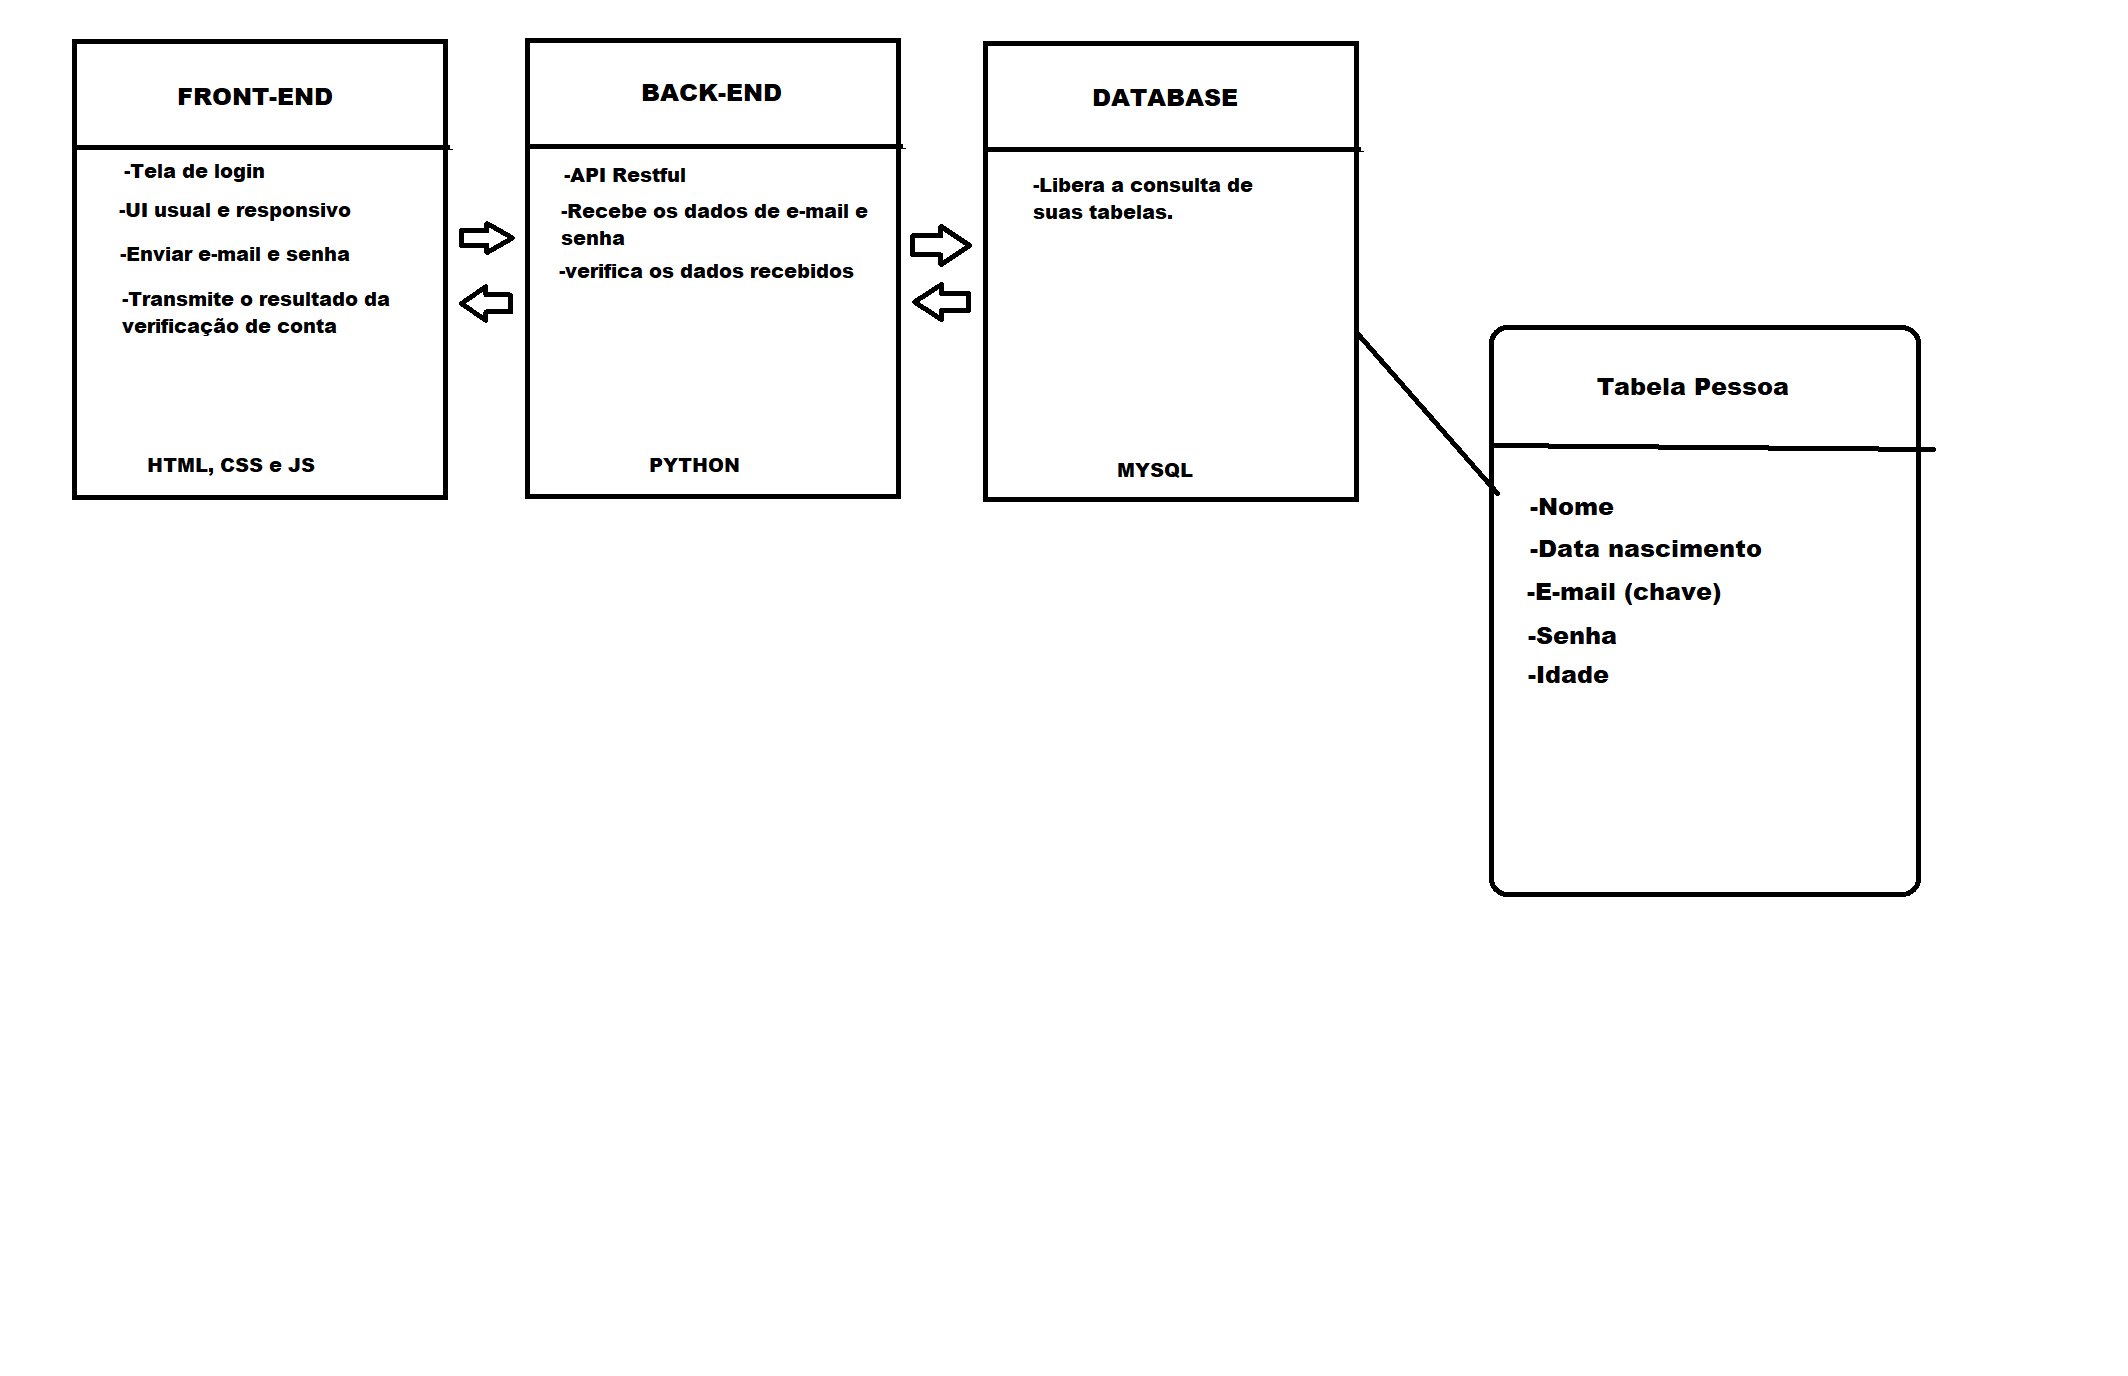
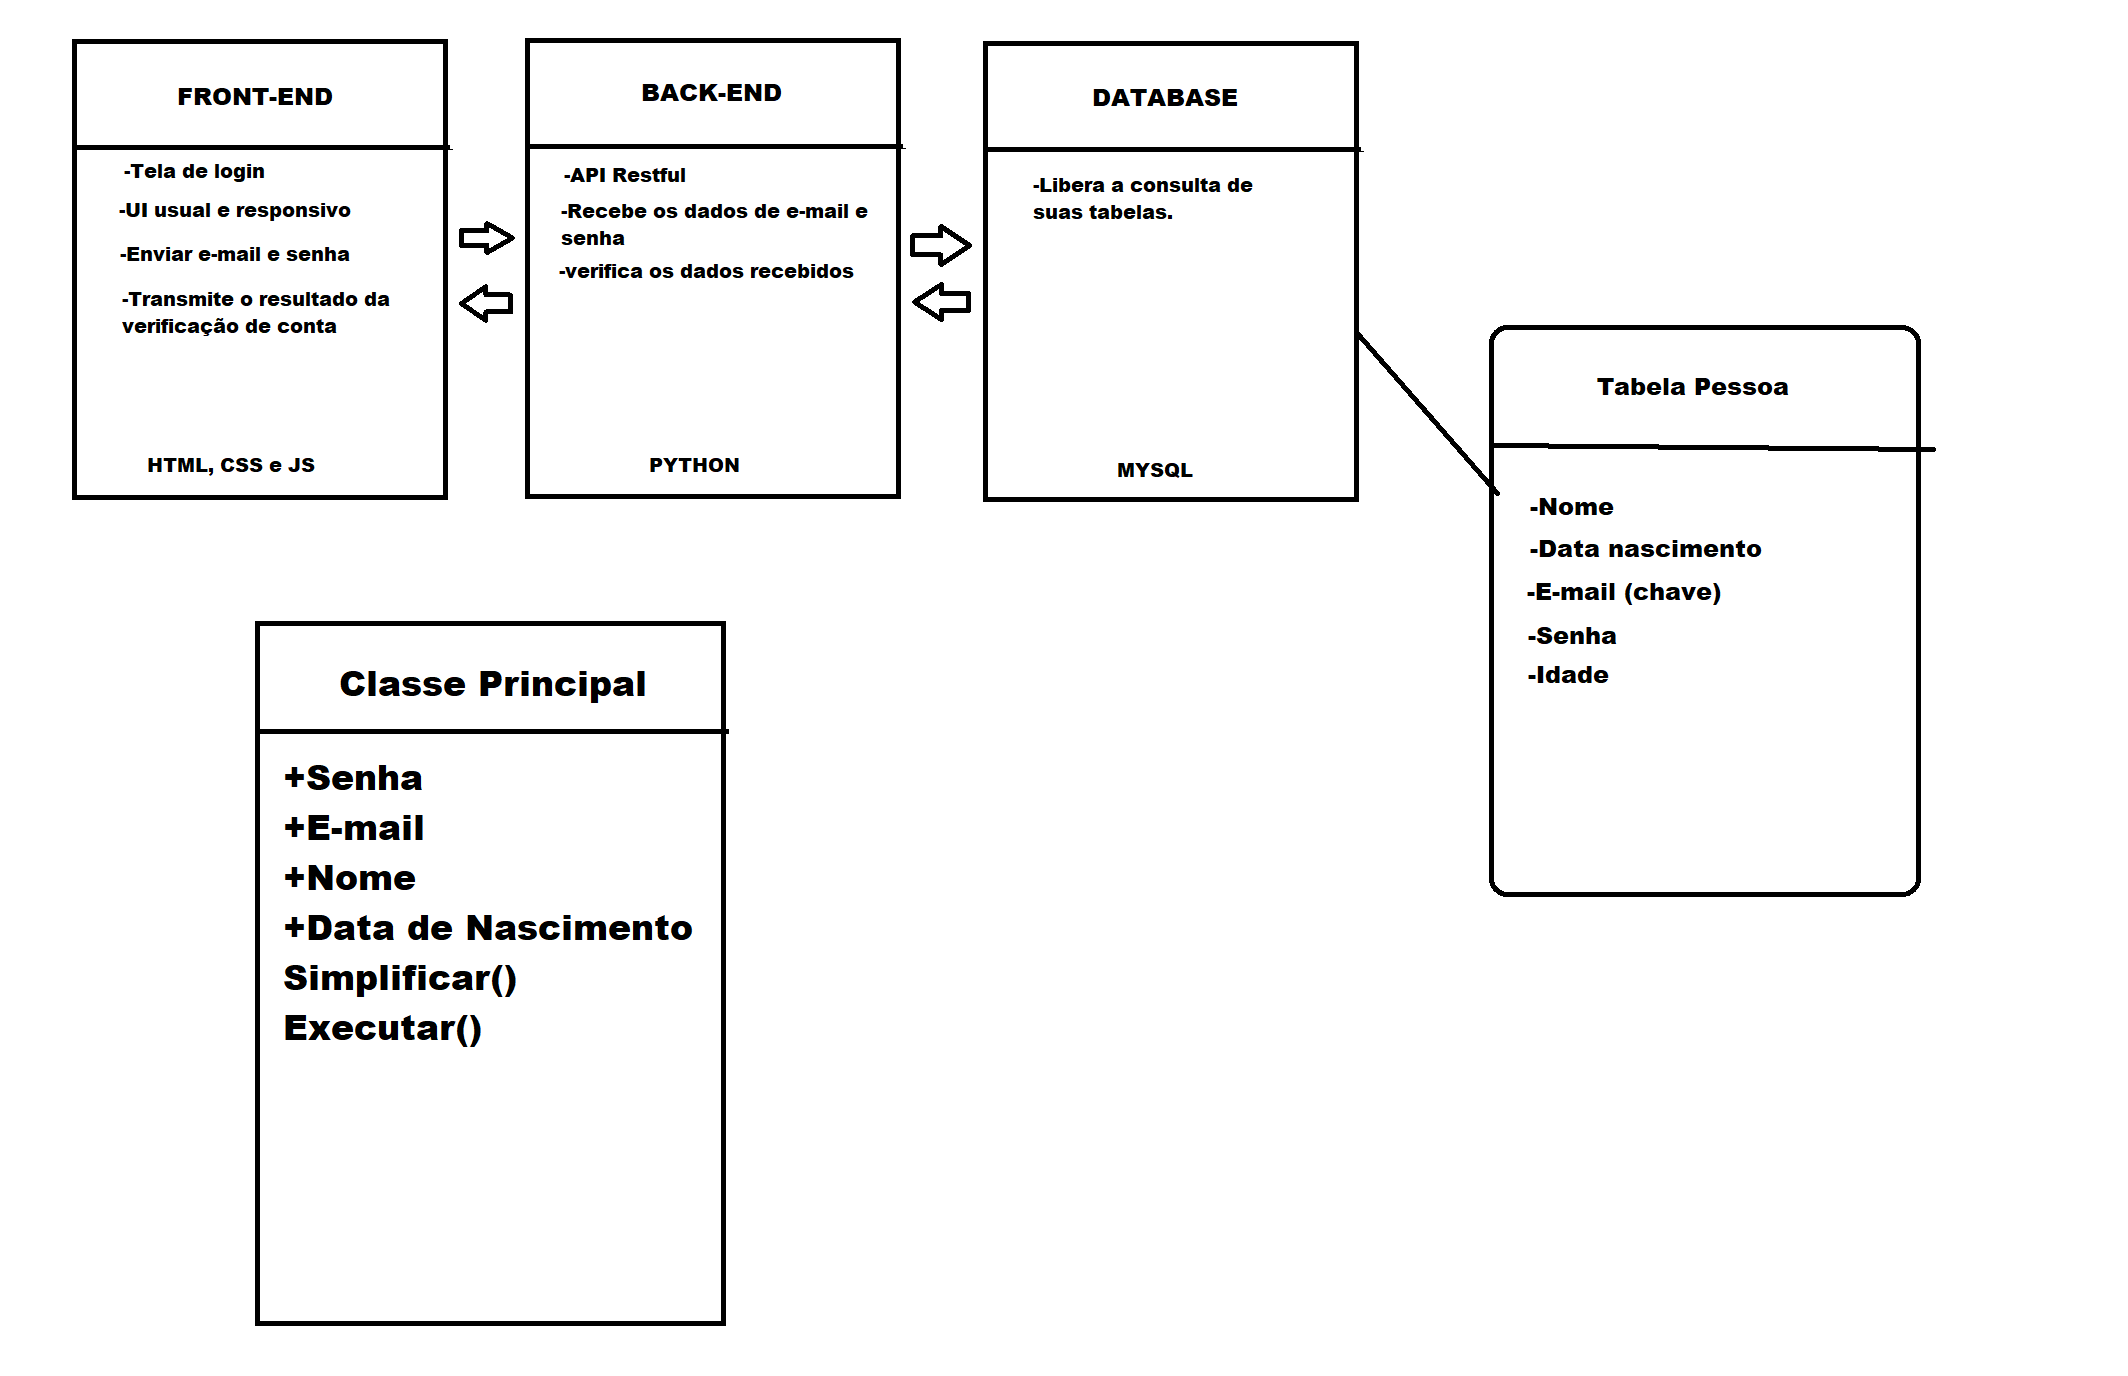
Refatoração do código. Apliquei melhoras na parte de POO, do projeto. O código está mais limpo e mais eficiente.

Changed region(s): [[0.1241, 0.4375, 0.3412, 0.7812], [0.1241, 0.9375, 0.3412, 0.9688]]

diff --git a/View/Perfil/style/style.css b/View/Perfil/style/style.css
@@ -22,5 +22,17 @@ h3{
     margin-top: 0px;
     color:white;
 }
+@media screen and (max-width: 1000px){
+
+    #Perfil{
+        display: grid;
+        place-items: center;
+        width: 60vh;
+        text-align: center;
+        background-color: rgb(56, 56, 56);
+        border-radius: 20px;
+        
+    }
+}
 
 

diff --git a/View/Logar/src/index.js b/View/Logar/src/index.js
@@ -30,7 +30,7 @@ async function Solicitacao(valor, valor2) {
       .then(data => {
         console.log(data.resultado), Salvar(data, login)
     })
-      .catch((error) => console.error('Erro:', error));
+      .catch((error) => console.error('Erro:', error));;
       
      
   }

diff --git a/Controller/API.py b/Controller/API.py
@@ -1,6 +1,6 @@
 from flask import Flask, request, jsonify
 from flask_cors import CORS
-from Model.Classes  import Filtro
+from Model.Classe_principal import ClassePrincipal
 import mysql.connector
 from datetime import datetime
 from datetime import date
@@ -20,28 +20,18 @@ def login():
     if request.method == 'OPTIONS':
         response = app.make_default_options_response()
     else:
-
         try:
-            conexao = mysql.connector.connect(host='localhost', database='cadastro', user='root', password='')
-            if conexao.is_connected():
-                cursor = conexao.cursor()
+            Consulta = ClassePrincipal()
 
-            senha = request.json['senha']
-            email = request.json['email']
+            Consulta.senha = request.json['senha']
+            Consulta.email = request.json['email']
 
-            cursor.execute('SELECT senha from pessoas where email = %s', (email,))
+            Consulta.Executar('SELECT senha from pessoas where email = %s',(Consulta.email,))
 
             # Serve para filtrar o dado consultado do database
-            resposta_consulta = str(cursor.fetchone())
-            filtro1 = Filtro()
-            filtro1.Simplificar(resposta_consulta)
-            verificando = filtro1.valor
+            verificando = Consulta.valor
 
-            if str(senha) == verificando:
-                # cursor.execute('SELECT nome from pessoas where email = %s', (email,))
-                # resposta_consulta = str(cursor.fetchone())
-                # filtro1.Simplificar(resposta_consulta)
-                # resposta = filtro1.valor
+            if str(Consulta.senha) == verificando:
                 resposta = "ACEITO"
 
             else:
@@ -52,7 +42,7 @@ def login():
 
 
         response = jsonify({'resultado': resposta})
-
+        Consulta.Encerrar()
     return response, 200
 
 @app.route('/perfil', methods=['POST'])
@@ -61,36 +51,28 @@ def perfil():
     if request.method == 'OPTIONS':
         response = app.make_default_options_response()
     else:
-
         try:
+            Consulta = ClassePrincipal()
 
-            conexao = mysql.connector.connect(host='localhost', database='cadastro', user='root', password='')
-            if conexao.is_connected():
-                cursor = conexao.cursor()
-            senha = request.json['senha']
-            email = request.json['email']
+            Consulta.senha = request.json['senha']
+            Consulta.email = request.json['email']
 
-            cursor.execute('SELECT senha from pessoas where email = %s', (email,))
+            Consulta.Executar('SELECT senha from pessoas where email = %s', (Consulta.email,))
 
             # Serve para filtrar o dado consultado do database
-            resposta_consulta = str(cursor.fetchone())
-            filtro1 = Filtro()
-            filtro1.Simplificar(resposta_consulta)
-            verificando = filtro1.valor
+            verificando = Consulta.valor
 
-            if str(senha) == verificando:
-                cursor.execute('SELECT nome from pessoas where email = %s', (email,))
-                resposta_consulta = str(cursor.fetchone())
-                filtro1.Simplificar(resposta_consulta)
-                nome = filtro1.valor
+            if str(Consulta.senha) == verificando:
 
-                cursor.execute('SELECT data_nascimento from pessoas where email = %s', (email,))
-                resposta_consulta = str(cursor.fetchone())
-                filtro1.Simplificar(resposta_consulta)
-                data_nasc = filtro1.valor
+                Consulta.Executar('SELECT nome from pessoas where email = %s', (Consulta.email,))
+                Consulta.nome = Consulta.valor
 
-                data_nasc = str(data_nasc.replace('datetime.date', ''))
-                data_nasc = data_nasc.replace(' ', '-')
+                Consulta.Executar('SELECT data_nascimento from pessoas where email = %s', (Consulta.email,))
+
+                Consulta.data_nasc = Consulta.valor
+
+                Consulta.data_nasc = str(Consulta.data_nasc.replace('datetime.date', ''))
+                Consulta.data_nasc = Consulta.data_nasc.replace(' ', '-')
 
                 resposta = "Aceito"
 
@@ -105,7 +87,8 @@ def perfil():
 
 
 
-    response = jsonify({'nome': nome, 'data_nasc': data_nasc, 'resultado': resposta})
+    response = jsonify({'nome': Consulta.nome, 'data_nasc': Consulta.data_nasc, 'resultado': resposta})
+    Consulta.Encerrar()
     return response, 200
 
 
@@ -118,18 +101,17 @@ def cadastro():
     else:
 
         try:
-            conexao = mysql.connector.connect(host='localhost', database='cadastro', user='root', password='')
-
+            Consulta = ClassePrincipal()
 
             try:
                 resposta = "NEGADO"
-                cursor = conexao.cursor()
-                senha = request.json['senha']
-                senha = str(senha)
-                email = request.json['email']
-                email = str(email)
-                nome = request.json['nome']
-                nome = str(nome)
+
+                Consulta.senha = str(request.json['senha'])
+
+                Consulta.email = str(request.json['email'])
+
+                Consulta.nome = str(request.json['nome'])
+
                 data_nascimento = request.json['nascimento']
                 caracteres = str(data_nascimento)
                 ano = ''
@@ -144,17 +126,15 @@ def cadastro():
                 if ((int(ano)) < (int(data_atual[0])) - 18 ):
                     data_nascimento = datetime.strptime(data_nascimento, "%Y-%m-%d")
                     try:
-                        cursor.execute(
-                            'INSERT INTO pessoas(email, nome, data_nascimento, senha) VALUES (%s, %s, %s, %s);',
-                            (email, nome, data_nascimento, senha))
+                        Consulta.Executar('INSERT INTO pessoas(email, nome, data_nascimento, senha) VALUES (%s, %s, %s, %s);',
+                            (Consulta.email, Consulta.nome, data_nascimento, Consulta.senha))
 
-                        conexao.commit()
+                        Consulta.conexao.commit()
                         resposta = "CADASTRADO"
 
 
                     except Exception as er:
                         print("Não cadastrado")
-
 
             except Exception as er:
                 print("Erro json")
@@ -163,6 +143,7 @@ def cadastro():
 
 
         response = jsonify({'resultado': resposta})
+        Consulta.Encerrar()
 
         return response, 200
 

diff --git a/Model/Classe_principal.py b/Model/Classe_principal.py
@@ -1,0 +1,39 @@
+import mysql.connector
+
+class ClassePrincipal:
+
+    # Esta classe tem como função apenas realizar o replace do dado consultado do database.
+    # Sem o Filtro: ('Josias',)
+    #Com o Filtro: Josias
+    def __init__(self):
+        # Vai chamar a função de conexão ao banco de dados
+        self.valor = ""
+        self.nome = ""
+        self.data_nasc = ""
+        self.email = ""
+        self.senha = ""
+
+        #Conexão direta com o Banco de dados
+        try:
+            self.conexao = mysql.connector.connect(host='localhost', database='cadastro', user='root', password='')
+            self.cursor = self.conexao.cursor()
+
+        except:
+            print("Banco de dados fora do ar")
+
+    def Simplificar(self, simplificando):
+        simplificando = simplificando.replace('(', '')
+        simplificando = simplificando.replace(')', '')
+        simplificando = simplificando.replace(',', '')
+        simplificando = simplificando.replace("'", '')
+        simplificando = simplificando.replace("'", '')
+        self.valor = simplificando
+
+    def Executar(self, comando, parametro):
+        self.cursor.execute(comando, (parametro))
+        resposta_consulta = str(self.cursor.fetchone())
+        self.Simplificar(resposta_consulta)
+
+    def Encerrar(self):
+        self.cursor.close()
+
